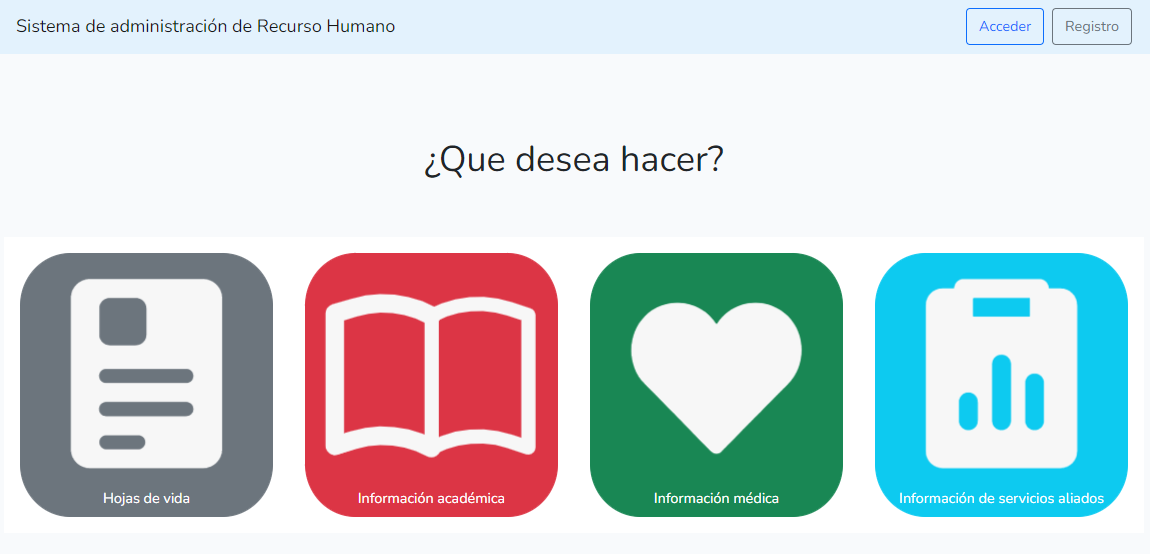
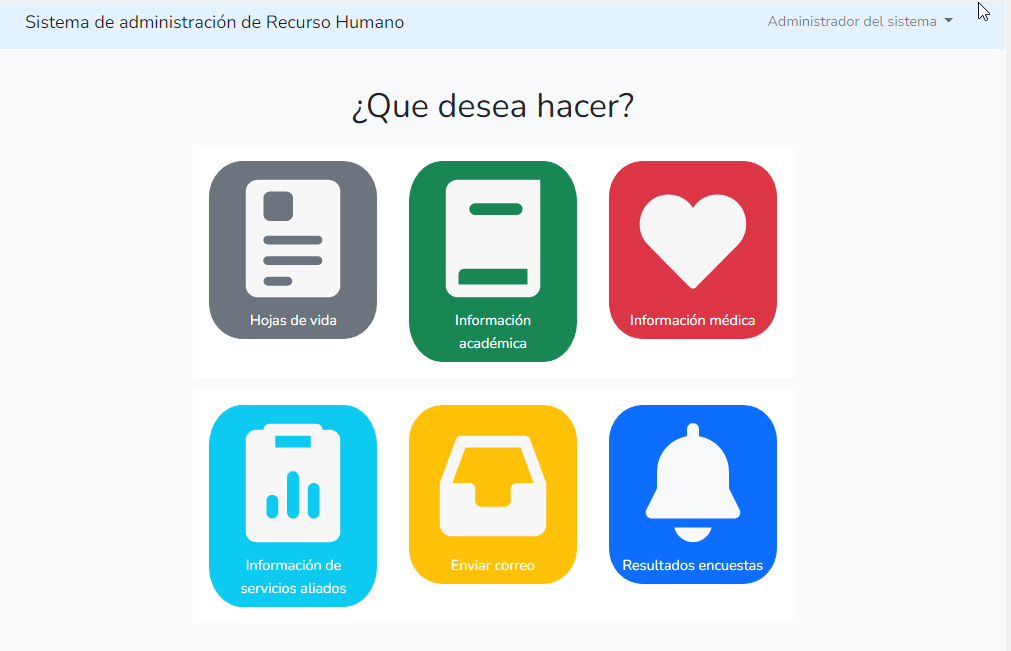
Termine de crear la guía de uso

diff --git a/README.md b/README.md
@@ -4,37 +4,37 @@ El proyecto es realizado bajo el framework de trabajo LARAVEL, a continuación e
 
 ## Para poder ejecutar o editar el proyecto, son necesarias las siguientes herramientas
 
-- [COMPOSER](https://getcomposer.org/download/).
-- [XAMPP](https://www.apachefriends.org/es/index.html).
+- [XAMPP](https://www.apachefriends.org/es/index.html)
+- [COMPOSER](https://getcomposer.org/download/)
 - [NODE:JS](https://nodejs.org/es/)
 - [VSCode](https://code.visualstudio.com/)
 
 ## Instalación
-Una vez tenga los programas requeridos y clonado el repositorio en su computador, diríjase a la terminal de visual studio code y ejecute los siguientes comandos.
+Una vez tenga los programas requeridos y clonado el repositorio en su computador, abra el programa XAMMP y en el botón config haga click y en el sub menú seleccione la opciones php.ini, le abrirá un documento de texto.
+
+![imagen](/Imagenes/xammp.png)
+
+Despues de esto, presione las teclas `ctrl + b`, se abrirá una ventana de busquedad, escriba ahí lo siguiente: `extension=gd`, quite el signo ";" (punto y coma) y guarde el archivo, diríjase a la terminal de visual studio code y ejecute los siguientes comandos.
 
 `composer install`
 
 Una vez termine el proceso continúe con el siguiente comando.
 
-`composer update`
-
-y despues el siguiente.
-
-`php artisan vendor:publish --tag=laravel-errors`
-
-`composer require maatwebsite/excel:*`
-
-`composer require psr/simple-cache:^1.0 maatwebsite/excel`
-
-`composer require phpoffice/phpspreadsheet`
-
-`php artisan vendor:publish --provider="Maatwebsite\Excel\ExcelServiceProvider" --tag=config`
-
-`php artisan migrate:fresh --seed`
-
 `npm install`
 
-Una vez terminada la ejecución del comando, cambie el nombre del archivo **.env.example** por **.env**, después de esto, cambia su contenido, por el siguiente:
+Despues de esto, debe configurar su correo electronico para poder enviar correos a traves de la plataforma.
+
+- [Configuarición imap](https://mail.google.com/mail/u/0/?tab=wm#settings/fwdandpop)
+
+![imagen](/Imagenes/imap.png)
+
+- [Configuarición apps menos seguras](https://myaccount.google.com/lesssecureapps)
+
+![imagen](/Imagenes/seguras.png)
+
+Adiccional a estos pasos si le llega un correo o notificación acepte la viculación para que se puedan enviar los correos.
+
+Una vez termido esto, cambie el nombre del archivo **.env.example** por **.env**, después de esto, cambia su contenido, por el siguiente, haciendo las modificaciones al correo y la contraseña por los suyos.
 
 ```
 APP_NAME='Sistema de administración de Recurso Humano'
@@ -107,6 +107,16 @@ Vuelve a visual studio code y en la terminal escribe `php artisan migrate`, esto
 
 ![Captura de pantalla de la terminal](/Imagenes/terminal%20migrate.png)
 
+Despues de esto en la terminal de visual studio code ejecute el siguiente comando
+
+`php artisan migrate:refresh --seed`
+
+Este comando subirá el usuario administrador para poder utilizar la plataforma
+
+![Usuario por defecto](/Imagenes/usuario%20por%20defecto.png)
+
+pueden cambiarlo si así lo desea en el archivo `UsuarioSeeder.php`, el cual se encuentra en la ruta `database/seeders`.
+
 ## Ejecución
 
 Ya con todo esto configurado, escribe el comando `php artisan serve`, después de esto crea una nueva terminal y corre el comando `npm run watch`.
@@ -116,10 +126,11 @@ Ya con todo esto configurado, escribe el comando `php artisan serve`, después d
 
 Una vez las dos terminales se encuentren en marcha, ve de nuevo a la terminal en la que se está corriendo *php artisan serve* y con la tecla *ctrl* + click Seleccionas la dirección IP que te arroja la consola.
 
-![Captura de pantalla de la terminal](/Imagenes/navegador.png)
-
-Una vez en el navegador, ve a la barra de búsqueda y añade `/index`, Esto te permitirá acceder a la página principal del sistema.
-
 ![Captura de pantalla de la terminal](/Imagenes/index.png)
+
+El usuario administrador tiene como credenciales
+
+Correo: `administrador@sistema.com`
+Contraseña: `1234`
 
 #### Felicitaciones, su sistema de gestión de recurso humano está listo para ser usado en su servidor local.
